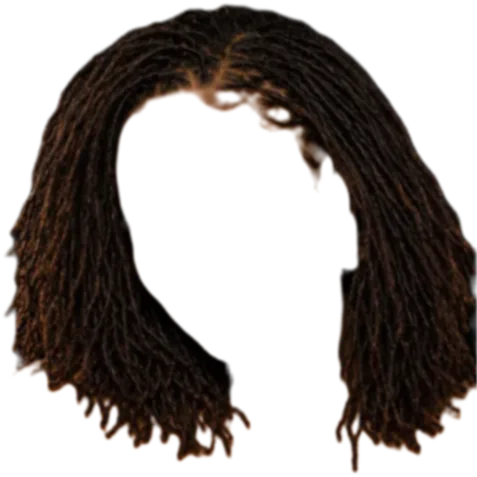
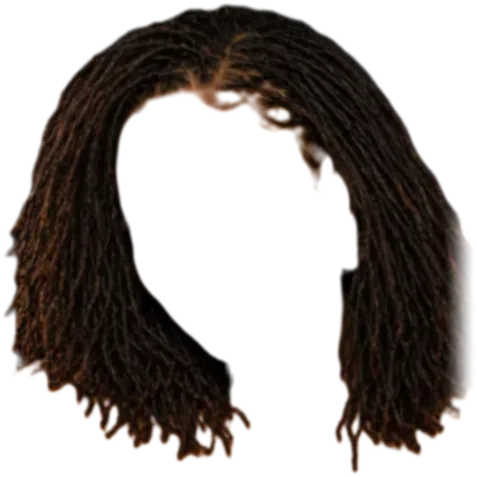
Try-on wigs: cleaner background behind hidden hair (sampled away from her hair), softer wig edges where the source photo cut the hair off (arched crown, tapered ends, rounded afro), sleek bob removed (its one-sided flick did not sit on a face); 18 wigs. Canvas fits the screen

Changed region(s): [[0.9392, 0.4403, 1.0, 0.8805]]

diff --git a/public/tryon.js b/public/tryon.js
@@ -28,7 +28,7 @@ const BROW = [['#141414', 'Soft black'], ['#3b2016', 'Dark brown'], ['#6b4030', 
 const BLUSH = [['#f4ae86', 'Peach'], ['#f07c5f', 'Coral'], ['#d9798a', 'Rose'], ['#8e2f5a', 'Berry'], ['#c0603d', 'Terracotta'], ['#a8432a', 'Brick']];
 const SHADOW = [['#a8743a', 'Bronze'], ['#d9aa4c', 'Gold'], ['#b8693a', 'Copper'], ['#6e2f55', 'Plum'], ['#8d7b6d', 'Taupe'], ['#1f8a5b', 'Emerald']];
 // Hair-only cutouts made from MIRRR's Wig Match portraits; the model's outer eye corners, forehead and chin in cutout pixels.
-export const WIGS = [{"id":"blunt_lob","name":"Blunt Lob (Long Bob)","forehead":[219.9,130.5],"chin":[226.1,435.5],"right":[136.6,227.9],"left":[307.9,224.3]},{"id":"silk_press_natural","name":"Silk Press (Natural Hair)","forehead":[176.4,134.9],"chin":[199.3,392.7],"right":[122.7,220],"left":[266.8,212]},{"id":"sleek_bob","name":"Sleek Bob","forehead":[153.1,125.8],"chin":[133.3,380.7],"right":[84.2,200.5],"left":[225.5,213.8]},{"id":"bone_straight_long","name":"Bone Straight (Long)","forehead":[104,107.1],"chin":[166.4,284.1],"right":[89.9,177],"left":[179.8,143]},{"id":"curtain_bang_layers","name":"Curtain-Bang Silk Layers","forehead":[126.1,86.6],"chin":[178.5,244.9],"right":[113.3,150.4],"left":[191.6,121.3]},{"id":"loose_deep_wave","name":"Loose Deep Wave","forehead":[136,90.6],"chin":[182.8,240.1],"right":[123.1,148.2],"left":[196.4,123.6]},{"id":"water_wave","name":"Water Wave","forehead":[165.9,88.2],"chin":[210.5,238.2],"right":[152.9,146.8],"left":[225.8,121]},{"id":"highlighted_balayage","name":"Balayage / Highlighted","forehead":[227.6,70.6],"chin":[175.1,229.9],"right":[175.5,112.6],"left":[263,136]},{"id":"kinky_coily_afro","name":"Kinky Coily Afro","forehead":[230,248.4],"chin":[244.3,519.5],"right":[159.4,339.1],"left":[315.3,331.1]},{"id":"big_chop_fro","name":"Big Chop Fro","forehead":[204.4,141.5],"chin":[209.6,428.9],"right":[116.3,238.1],"left":[284.9,233.1]},{"id":"twist_out_natural","name":"Twist-Out Natural","forehead":[163.8,142],"chin":[217,387.4],"right":[124.5,234.5],"left":[257.9,205.3]},{"id":"butterfly_locs","name":"Butterfly Locs","forehead":[186.2,107.6],"chin":[196.6,347.4],"right":[134,190.9],"left":[265.7,181.2]},{"id":"faux_locs","name":"Faux Locs (Long)","forehead":[226.7,87.4],"chin":[233.4,300.8],"right":[175.5,161.9],"left":[295.3,154.5]},{"id":"sister_locs","name":"Sisterlocks / Micro Locs","forehead":[156.2,141.2],"chin":[236.8,357],"right":[138.2,227.2],"left":[251.8,188]},{"id":"senegalese_twists","name":"Senegalese Twists","forehead":[208.1,97.5],"chin":[215.5,343.1],"right":[150,180],"left":[286.7,176.2]},{"id":"passion_twists","name":"Passion Twists","forehead":[164.1,101.6],"chin":[215.4,253.2],"right":[152.4,161.8],"left":[226.9,133]},{"id":"jumbo_box_braids","name":"Jumbo Box Braids","forehead":[167,121.6],"chin":[229.8,326.9],"right":[148.5,201.7],"left":[248.8,164.6]},{"id":"fulani_braids","name":"Fulani Braids","forehead":[124.4,127.8],"chin":[198,332],"right":[105.4,207.9],"left":[214,169.8]},{"id":"goddess_braids","name":"Goddess Braids","forehead":[91.9,125.4],"chin":[162.6,328.8],"right":[74.4,205.8],"left":[179.3,166.4]}];
+export const WIGS = [{"id":"blunt_lob","name":"Blunt Lob (Long Bob)","forehead":[219.9,130.5],"chin":[226.1,435.5],"right":[136.6,227.9],"left":[307.9,224.3]},{"id":"silk_press_natural","name":"Silk Press (Natural Hair)","forehead":[176.4,134.9],"chin":[199.3,392.7],"right":[122.7,220],"left":[266.8,212]},{"id":"bone_straight_long","name":"Bone Straight (Long)","forehead":[104,107.1],"chin":[166.4,284.1],"right":[89.9,177],"left":[179.8,143]},{"id":"curtain_bang_layers","name":"Curtain-Bang Silk Layers","forehead":[126.1,86.6],"chin":[178.5,244.9],"right":[113.3,150.4],"left":[191.6,121.3]},{"id":"loose_deep_wave","name":"Loose Deep Wave","forehead":[136,90.6],"chin":[182.8,240.1],"right":[123.1,148.2],"left":[196.4,123.6]},{"id":"water_wave","name":"Water Wave","forehead":[165.9,88.2],"chin":[210.5,238.2],"right":[152.9,146.8],"left":[225.8,121]},{"id":"highlighted_balayage","name":"Balayage / Highlighted","forehead":[227.6,70.6],"chin":[175.1,229.9],"right":[175.5,112.6],"left":[263,136]},{"id":"kinky_coily_afro","name":"Kinky Coily Afro","forehead":[230,248.4],"chin":[244.3,519.5],"right":[159.4,339.1],"left":[315.3,331.1]},{"id":"big_chop_fro","name":"Big Chop Fro","forehead":[204.4,141.5],"chin":[209.6,428.9],"right":[116.3,238.1],"left":[284.9,233.1]},{"id":"twist_out_natural","name":"Twist-Out Natural","forehead":[163.8,142],"chin":[217,387.4],"right":[124.5,234.5],"left":[257.9,205.3]},{"id":"butterfly_locs","name":"Butterfly Locs","forehead":[186.2,107.6],"chin":[196.6,347.4],"right":[134,190.9],"left":[265.7,181.2]},{"id":"faux_locs","name":"Faux Locs (Long)","forehead":[226.7,87.4],"chin":[233.4,300.8],"right":[175.5,161.9],"left":[295.3,154.5]},{"id":"sister_locs","name":"Sisterlocks / Micro Locs","forehead":[156.2,141.2],"chin":[236.8,357],"right":[138.2,227.2],"left":[251.8,188]},{"id":"senegalese_twists","name":"Senegalese Twists","forehead":[208.1,97.5],"chin":[215.5,343.1],"right":[150,180],"left":[286.7,176.2]},{"id":"passion_twists","name":"Passion Twists","forehead":[164.1,101.6],"chin":[215.4,253.2],"right":[152.4,161.8],"left":[226.9,133]},{"id":"jumbo_box_braids","name":"Jumbo Box Braids","forehead":[167,121.6],"chin":[229.8,326.9],"right":[148.5,201.7],"left":[248.8,164.6]},{"id":"fulani_braids","name":"Fulani Braids","forehead":[124.4,127.8],"chin":[198,332],"right":[105.4,207.9],"left":[214,169.8]},{"id":"goddess_braids","name":"Goddess Braids","forehead":[91.9,125.4],"chin":[162.6,328.8],"right":[74.4,205.8],"left":[179.3,166.4]}];
 
 const $ = id => document.getElementById(id);
 const esc = s => String(s ?? '').replace(/[&<>"']/g, c => ({ '&': '&amp;', '<': '&lt;', '>': '&gt;', '"': '&quot;', "'": '&#39;' }[c]));
@@ -263,15 +263,18 @@ function hideOwnHair(L, w, h) {
   sctx.drawImage(work, 0, 0, mw, mh);
   const px = sctx.getImageData(0, 0, mw, mh); const d = px.data;
   // Normalised blur of the background pixels fills the whole frame with "what is behind her".
-  const n = mw * mh; let acc = new Float32Array(n * 4);
-  for (let i = 0; i < n; i++) { const m = bg[i] > 0.85 && hair[i] < 0.05 ? 1 : 0; acc[i * 4] = d[i * 4] * m; acc[i * 4 + 1] = d[i * 4 + 1] * m; acc[i * 4 + 2] = d[i * 4 + 2] * m; acc[i * 4 + 3] = m; }
+  const n = mw * mh; const acc = new Float32Array(n * 4);
   const box = (src, r) => {
     const out = new Float32Array(src.length); const tmp = new Float32Array(src.length);
     for (let y = 0; y < mh; y++) for (let c = 0; c < 4; c++) { let s = 0; for (let x = -r; x <= r; x++) s += src[(y * mw + Math.min(mw - 1, Math.max(0, x))) * 4 + c]; for (let x = 0; x < mw; x++) { tmp[(y * mw + x) * 4 + c] = s; s += src[(y * mw + Math.min(mw - 1, x + r + 1)) * 4 + c] - src[(y * mw + Math.max(0, x - r)) * 4 + c]; } }
     for (let x = 0; x < mw; x++) for (let c = 0; c < 4; c++) { let s = 0; for (let y = -r; y <= r; y++) s += tmp[(Math.min(mh - 1, Math.max(0, y)) * mw + x) * 4 + c]; for (let y = 0; y < mh; y++) { out[(y * mw + x) * 4 + c] = s; s += tmp[(Math.min(mh - 1, y + r + 1) * mw + x) * 4 + c] - tmp[(Math.max(0, y - r) * mw + x) * 4 + c]; } }
     return out;
   };
-  for (const r of [3, 8, 20]) {
+  // Sample the background only well away from her hair (no fringe or soft shadow of it).
+  const near = new Float32Array(n * 4); for (let i = 0; i < n; i++) near[i * 4 + 3] = hair[i] > 0.05 ? 1 : 0;
+  const nb = box(near, Math.max(2, Math.round(mw / 40)));
+  for (let i = 0; i < n; i++) { const m = bg[i] > 0.85 && nb[i * 4 + 3] === 0 ? 1 : 0; acc[i * 4] = d[i * 4] * m; acc[i * 4 + 1] = d[i * 4 + 1] * m; acc[i * 4 + 2] = d[i * 4 + 2] * m; acc[i * 4 + 3] = m; }
+  for (const r of [3, 8, 20, 48]) {
     const b = box(acc, r);
     for (let i = 0; i < n; i++) if (acc[i * 4 + 3] < 0.5 && b[i * 4 + 3] > 0) { const k = b[i * 4 + 3]; acc[i * 4] = b[i * 4] / k; acc[i * 4 + 1] = b[i * 4 + 1] / k; acc[i * 4 + 2] = b[i * 4 + 2] / k; acc[i * 4 + 3] = 1; }
   }
@@ -292,12 +295,12 @@ function hideOwnHair(L, w, h) {
   let sr = 0, sg = 0, sb = 0; for (let i = 0; i < sk.length; i += 4) { sr += sk[i]; sg += sk[i + 1]; sb += sk[i + 2]; }
   const skin = [sr / (sk.length / 4), sg / (sk.length / 4), sb / (sk.length / 4)];
   for (let i = 0; i < n; i++) { const z = zd[i * 4 + 3] / 255; if (z > 0) { acc[i * 4] += (skin[0] - acc[i * 4]) * z; acc[i * 4 + 1] += (skin[1] - acc[i * 4 + 1]) * z; acc[i * 4 + 2] += (skin[2] - acc[i * 4 + 2]) * z; } }
-  // Hair strength, grown by two mask pixels so no dark fringe of her own hair is left at the edge.
+  // Hair strength, grown by three mask pixels so no dark fringe of her own hair is left at the edge.
   const raw = new Float32Array(n);
-  for (let i = 0; i < n; i++) raw[i] = Math.max(0, Math.min(1, (hair[i] - 0.12) / 0.3));
+  for (let i = 0; i < n; i++) raw[i] = Math.max(0, Math.min(1, (hair[i] - 0.08) / 0.22));
   for (let y = 0; y < mh; y++) for (let x = 0; x < mw; x++) {
     let a = 0;
-    for (let dy = -2; dy <= 2; dy++) for (let dx = -2; dx <= 2; dx++) { const yy = y + dy, xx = x + dx; if (yy >= 0 && yy < mh && xx >= 0 && xx < mw) { const v = raw[yy * mw + xx]; if (v > a) a = v; } }
+    for (let dy = -3; dy <= 3; dy++) for (let dx = -3; dx <= 3; dx++) { const yy = y + dy, xx = x + dx; if (yy >= 0 && yy < mh && xx >= 0 && xx < mw) { const v = raw[yy * mw + xx]; if (v > a) a = v; } }
     const i = y * mw + x; a *= 1 - fd[i * 4 + 3] / 255;
     d[i * 4] = acc[i * 4]; d[i * 4 + 1] = acc[i * 4 + 1]; d[i * 4 + 2] = acc[i * 4 + 2]; d[i * 4 + 3] = Math.round(a * 255);
   }

diff --git a/public/styles.css b/public/styles.css
@@ -3250,7 +3250,7 @@ body { padding-top: 58px; }
 .to-file-label:focus-within { outline: 2px solid var(--accent-light); }
 .to-file-label { cursor: pointer; }
 .to-stage { position: relative; max-width: 960px; margin: 0.6rem 0; }
-.to-canvas { width: 100%; height: auto; background: #111; border-radius: 12px; display: block; }
+.to-canvas { width: 100%; height: auto; max-height: 78vh; object-fit: contain; background: #111; border-radius: 12px; display: block; }
 .to-canvas.to-mirror { transform: scaleX(-1); }
 .to-fps { position: absolute; right: 0.6rem; bottom: 0.4rem; margin: 0; font-size: 0.72rem; color: #ddd; background: rgba(0,0,0,0.45); padding: 0.1rem 0.45rem; border-radius: 6px; }
 .to-controls { display: grid; grid-template-columns: repeat(auto-fit, minmax(230px, 1fr)); gap: 0.8rem; }

diff --git a/README.md b/README.md
@@ -83,7 +83,7 @@ AestheticVector   → intensity / warmth / boldness / texture / palette
 60 complete multicultural beauty looks (makeup, with hair and finishing steps only if she picks them): Afro-Glam Editorial, Gulf Glam, K-Beauty Glass Skin, Caribbean Carnival, Bollywood Bridal, and more. Each look lists product types (category, shade range, finish), and 50 of the 60 looks also show named products from brands' own stores, with prices as of Oct 30, 2026.
 
 ### 🪞 Live Try-On (on your device)
-Lipstick (creme, gloss, matte), liner and kohl, lashes, brows, eyeshadow, blush and 19 wig previews on her own face, live through her camera, on a photo she picks, or on one of MIRRR's sample photos (for anyone without a camera). A face tracker with 478 landmarks runs inside the browser tab; no frame or photo is uploaded and MIRRR's server never sees it. Lipstick is recoloured pixel by pixel in CIELAB so her own lip lines and light stay; edges are feathered; lashes are drawn as tapered strands along the upper lash line; wigs are hair-only cutouts from MIRRR's own wig photos, fitted to her eye corners and chin so they scale and tilt with her head. Limits, said in the app: colours are colour words, not exact product shades; wigs are a placement preview and some of her own hair can still show; very turned heads track less closely.
+Lipstick (creme, gloss, matte), liner and kohl, lashes, brows, eyeshadow, blush and 18 wig previews on her own face, live through her camera, on a photo she picks, or on one of MIRRR's sample photos (for anyone without a camera). A face tracker with 478 landmarks runs inside the browser tab; no frame or photo is uploaded and MIRRR's server never sees it. Lipstick is recoloured pixel by pixel in CIELAB so her own lip lines and light stay; edges are feathered; lashes are drawn as tapered strands along the upper lash line; wigs are hair-only cutouts from MIRRR's own wig photos, fitted to her eye corners and chin so they scale and tilt with her head. Limits, said in the app: colours are colour words, not exact product shades; wigs are a placement preview and some of her own hair can still show; very turned heads track less closely.
 
 ---
 
